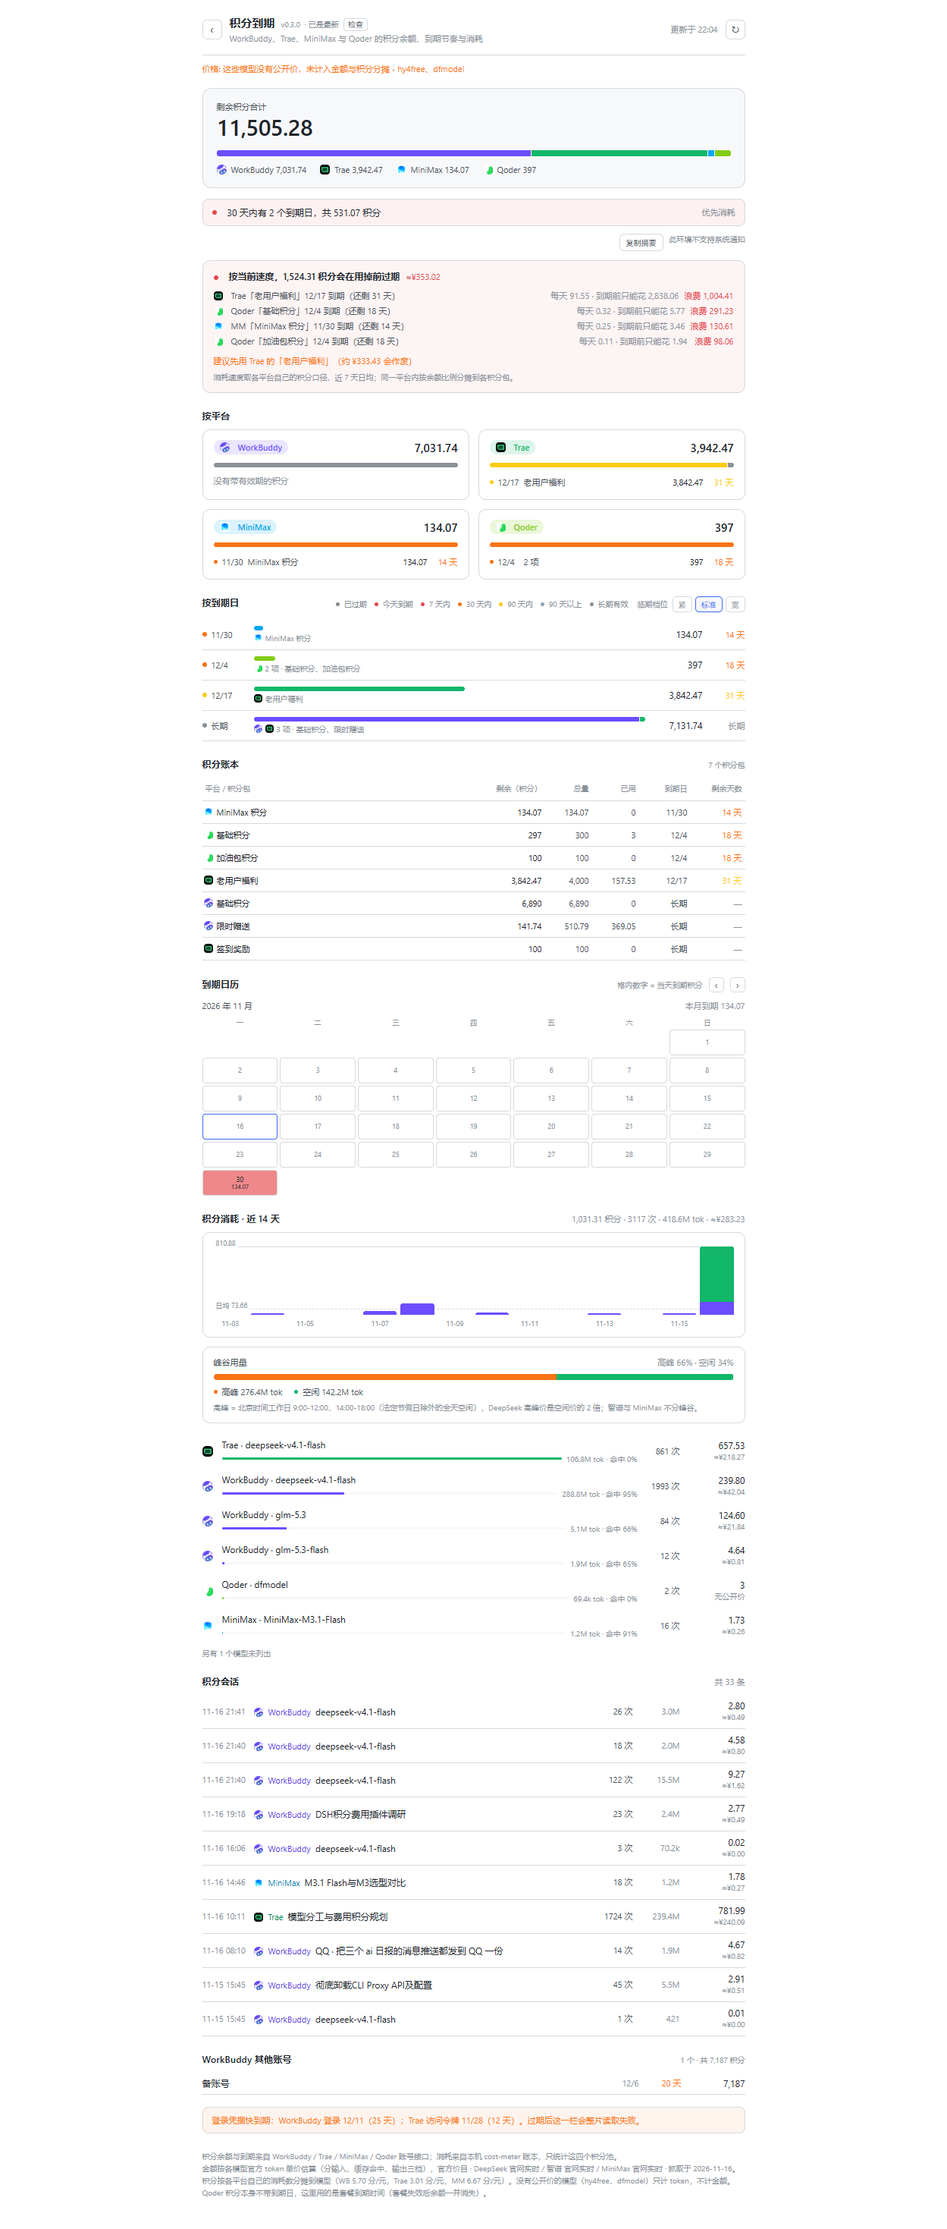
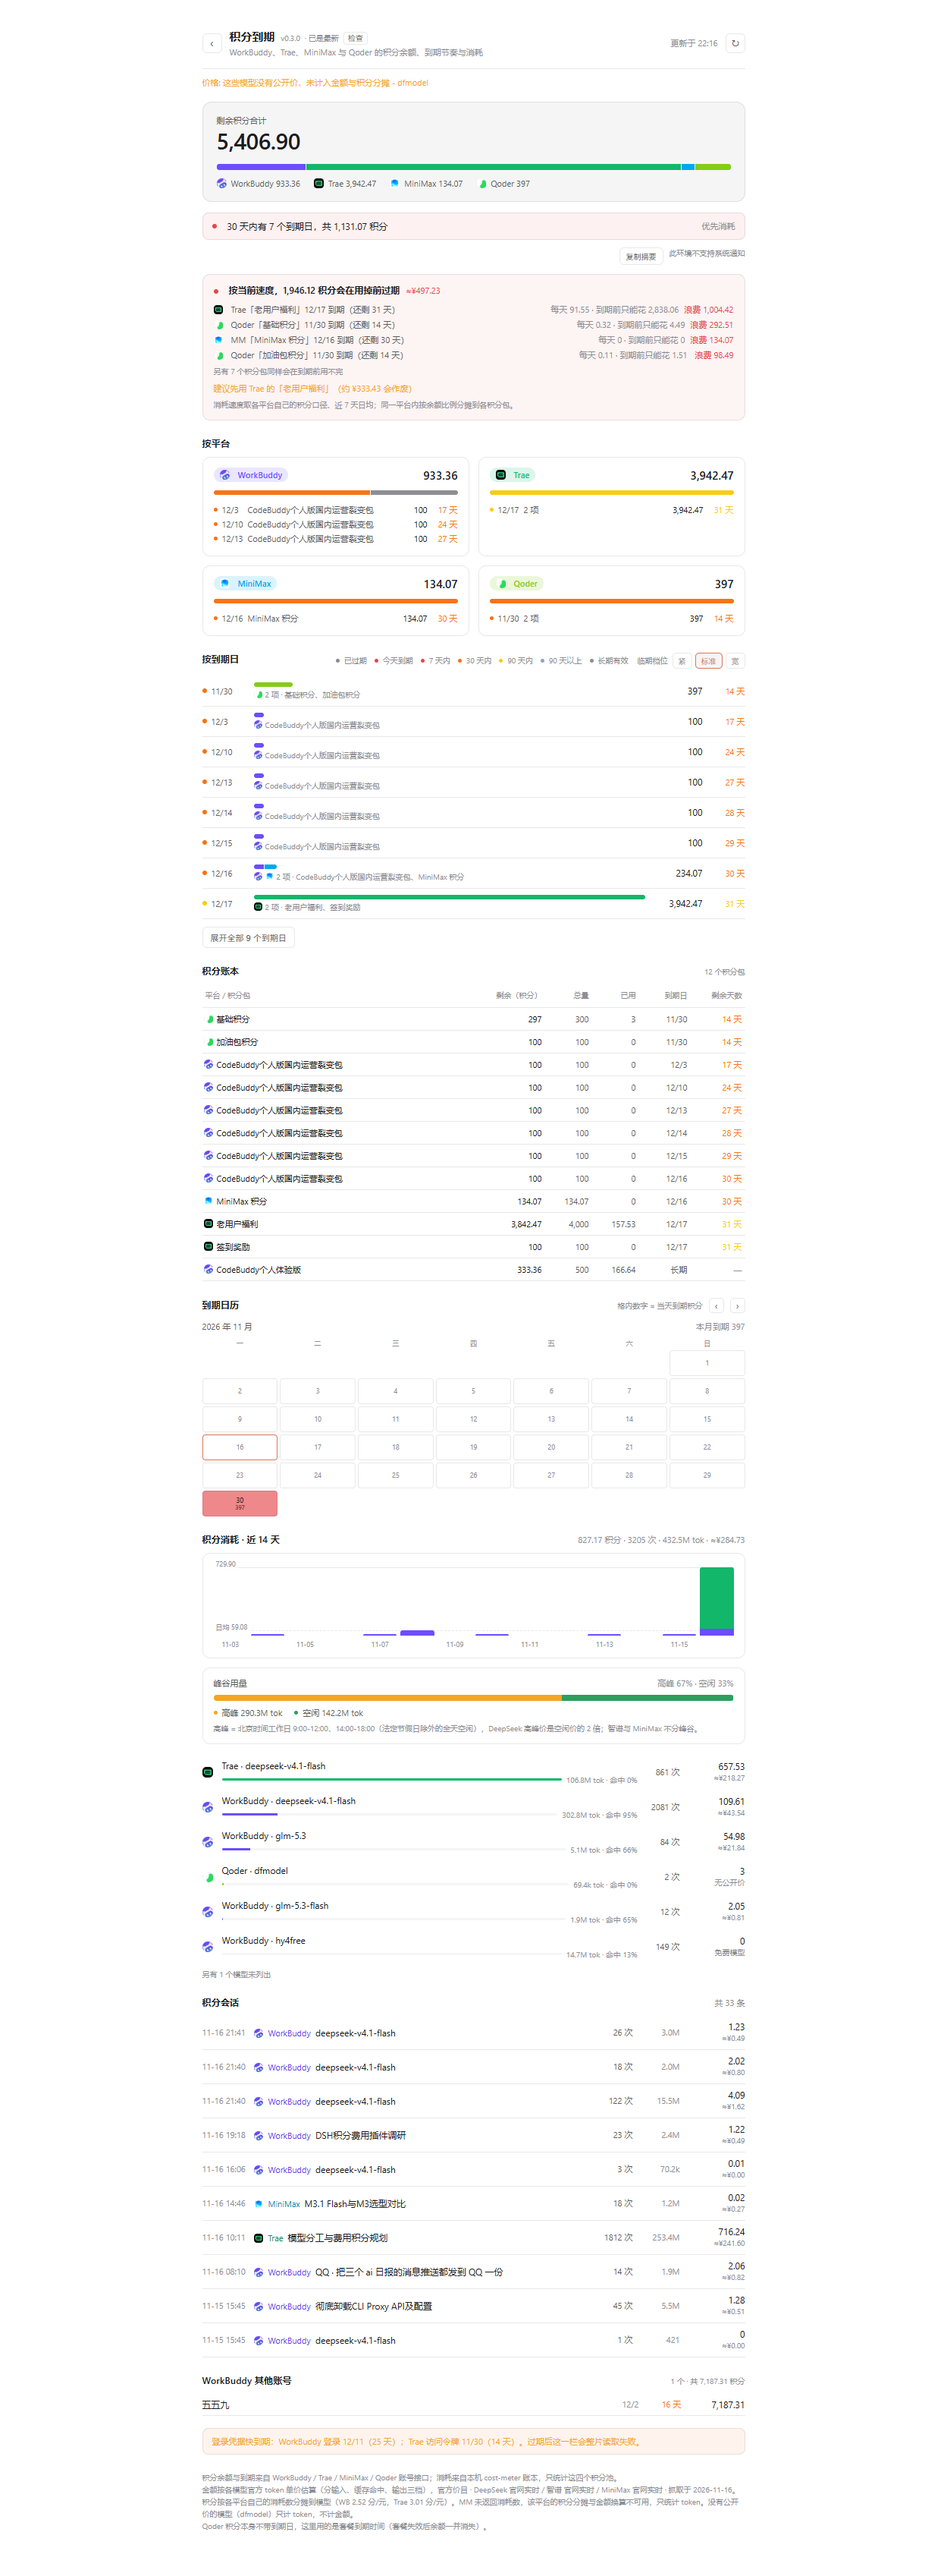
fix: share one data store between the sidebar and the page

diff --git a/lib/client.js b/lib/client.js
@@ -131,6 +131,17 @@ window.__ModuleLoader__.load({
 
     var LEVELS = levelsOf(ACTIVE);
 
+    /* The expiry scale is module state, and the sidebar row is mounted while
+       the page is not: a change made on the page has to reach the row too, or
+       the row keeps yesterday's colours until its next poll. */
+    var SCALE_SUBS = [];
+
+    function scaleEmit() {
+      SCALE_SUBS.slice().forEach(function (fn) {
+        fn();
+      });
+    }
+
     /* ---------- helpers ---------- */
 
     /* Expiry is a calendar question, not a stopwatch one: a pack that dies at
@@ -419,48 +430,93 @@ window.__ModuleLoader__.load({
 
     /* ---------- data ---------- */
 
-    function useData() {
-      var pair = React.useState({ data: null, error: null, loading: true });
-      var state = pair[0];
-      var setState = pair[1];
-      var alive = React.useRef(true);
+    /* One payload for every surface. The sidebar row and the full page mount
+       together, and with a hook-local fetch each of them polls the host on its
+       own timer: four upstream calls every two minutes become eight, and the
+       page reopening after the row already fetched just starts a third copy.
+       One store, one in-flight request, one backoff clock. */
+    var store = {
+      state: { data: null, error: null, loading: true },
+      subs: [],
+      busy: false,
+      fails: 0,
+      nextAt: 0,
+    };
 
-      var load = React.useCallback(function () {
-        setState(function (prev) {
-          if (prev.loading) return prev;
-          return { data: prev.data, error: prev.error, loading: true };
-        });
-        fetch(API, { headers: { accept: 'application/json' }, credentials: 'same-origin' })
-          .then(function (res) {
-            if (!res.ok) throw new Error('HTTP ' + res.status);
-            return res.json();
-          })
-          .then(function (data) {
-            if (!alive.current) return;
-            setState({ data: data, error: null, loading: false });
-          })
-          .catch(function (err) {
-            if (!alive.current) return;
-            /* Keep the last good payload on screen: a two-second hiccup must not
-               blank the numbers, and the stale stamp is what tells the reader
-               how old they are. */
-            setState(function (prev) {
-              return { data: prev.data, error: String((err && err.message) || err), loading: false };
-            });
+    function storeEmit(next) {
+      store.state = next;
+      store.subs.slice().forEach(function (fn) {
+        fn(next);
+      });
+    }
+
+    function storeSubscribe(fn) {
+      store.subs.push(fn);
+      return function () {
+        var i = store.subs.indexOf(fn);
+        if (i >= 0) store.subs.splice(i, 1);
+      };
+    }
+
+    function loadShared() {
+      if (store.busy) return;
+      if (store.nextAt && Date.now() < store.nextAt) return;
+      store.busy = true;
+      if (!store.state.loading) {
+        storeEmit({ data: store.state.data, error: store.state.error, loading: true });
+      }
+      fetch(API, { headers: { accept: 'application/json' }, credentials: 'same-origin' })
+        .then(function (res) {
+          if (!res.ok) throw new Error('HTTP ' + res.status);
+          return res.json();
+        })
+        .then(function (data) {
+          store.busy = false;
+          store.fails = 0;
+          store.nextAt = 0;
+          storeEmit({ data: data, error: null, loading: false });
+        })
+        .catch(function (err) {
+          store.busy = false;
+          store.fails += 1;
+          /* Back off instead of retrying a dead host every two minutes: one
+             interval, then two, then four, capped at ten minutes. */
+          var wait = REFRESH_MS * Math.pow(2, Math.min(store.fails - 1, 3));
+          store.nextAt = Date.now() + Math.min(wait, 600000);
+          /* Keep the last good payload on screen: a two-second hiccup must not
+             blank the numbers, and the stale stamp is what tells the reader
+             how old they are. */
+          storeEmit({
+            data: store.state.data,
+            error: String((err && err.message) || err),
+            loading: false,
           });
-      }, []);
+        });
+    }
+
+    /* A click means the reader does not believe the numbers: it has to skip the
+       backoff, or a failed poll would swallow the only retry they can ask for. */
+    function refreshNow() {
+      store.nextAt = 0;
+      loadShared();
+    }
+
+    function useData() {
+      var pair = React.useState(store.state);
+      var setState = pair[1];
 
       React.useEffect(function () {
-        alive.current = true;
-        load();
-        var timer = setInterval(load, REFRESH_MS);
+        var off = storeSubscribe(setState);
+        setState(store.state);
+        loadShared();
+        var timer = setInterval(loadShared, REFRESH_MS);
         return function () {
-          alive.current = false;
+          off();
           clearInterval(timer);
         };
       }, []);
 
-      return [state, load];
+      return [pair[0], refreshNow];
     }
 
     /**
@@ -783,6 +839,16 @@ window.__ModuleLoader__.load({
 
     function MiniEntry() {
       var pair = useData();
+      var forceScale = React.useState(0)[1];
+      /* Repaint when the threshold preset changes anywhere else in the app. */
+      React.useEffect(function () {
+        var bump = function () { forceScale(function (n) { return n + 1; }); };
+        SCALE_SUBS.push(bump);
+        return function () {
+          var i = SCALE_SUBS.indexOf(bump);
+          if (i >= 0) SCALE_SUBS.splice(i, 1);
+        };
+      }, []);
       var state = pair[0];
       var load = pair[1];
       var data = state.data;
@@ -1713,6 +1779,7 @@ window.__ModuleLoader__.load({
               LEVELS = levelsOf(p);
               try { window.localStorage.setItem(THRESHOLD_KEY, p.id); } catch (e) { /* private mode */ }
               setActive(p.id);
+              scaleEmit();
               if (props.onChange) props.onChange();
             },
             style: {

diff --git a/lib/index.js b/lib/index.js
@@ -734,6 +734,10 @@ async function readLedger() {
       ledgerCache = { path, stamp, value };
       return value;
     } catch {
+      /* A malformed ledger stays malformed until it is written again, so cache
+         the miss too: re-reading 1.4 MB on every panel open to hit the same
+         parse error is the one thing worse than the error itself. */
+      ledgerCache = { path, stamp, value: null };
       return null;
     }
   }

diff --git a/CHANGELOG.md b/CHANGELOG.md
@@ -2,6 +2,17 @@
 
 版本号遵循 semver。破坏性变更会单独标注。
 
+## 0.3.1 — 2026-11-16
+
+### 修复
+- **侧边栏与完整页面各拉一份数据**：两个入口各自 `fetch` 并各自 `setInterval`，面板开着时每 2 分钟打两轮上游。现在共用一份 store，谁先到谁填，两边同时更新。
+- 刷新请求没有 in-flight 去重，定时器与手动刷新撞在一起会并发打同一批上游；现在同一时刻只允许一个请求在飞。
+- 离线时每次轮询都要等满所有超时，失败后也不减速。现在按连续失败次数指数退避（2 / 4 / 8 分钟，上限 10 分钟），手动点刷新立即跳过退避重试。
+- 切换临期档位只重绘完整页面，侧边栏那行还是旧配色。现在档位变化广播到所有挂载点。
+- 账本 JSON 解析失败时不做标记，每次轮询都重新解析同一个 1.4 MB 文件；现在失败结果也进缓存，文件改动后才重试。
+
+### 说明
+- 侧边栏那行使用与完整页面相同的数据源，因此打开面板不会再触发一次独立请求。
 ## 0.3.0 — 2026-11-16
 
 ### 安全
